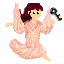
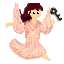
v1.2.1

diff --git a/lib/services/YukiSekai.dart b/lib/services/YukiSekai.dart
@@ -1,4 +1,5 @@
 import 'dart:async';
+import 'dart:math';
 import 'dart:ui';
 
 import 'package:firebase_database/firebase_database.dart';
@@ -21,7 +22,7 @@ class YukiSekai extends FlameGame
   final DatabaseReference fireBaseDB =
       FirebaseDatabase.instance.ref('Yuki_Sekai/World1');
 
-  Player player = Player(costume: 'Yakai_14_pink_dress');
+  Player player = Player();
 
   @override
   Color backgroundColor() => Color.fromARGB(255, 0, 0, 0);
@@ -32,6 +33,9 @@ class YukiSekai extends FlameGame
   @override
   FutureOr<void> onLoad() async {
     InitData.playersInfo.clear();
+    player.costume = (Random().nextInt(100) > 40)
+        ? 'Yakai_14_black_dress'
+        : 'Yakai_14_pink_dress';
     //load all images into cache
     await images.loadAllImages();
 

diff --git a/lib/widgets/Yuki_Sekai/World1/levels/level.dart b/lib/widgets/Yuki_Sekai/World1/levels/level.dart
@@ -27,15 +27,9 @@ class Level extends World {
       for (final spawnPoint in spawnPointsLayer.objects) {
         switch (spawnPoint.class_) {
           case 'Player':
-            // final nameTag = TextComponent(text: InitData.miyukiUser.name)
-            //   ..anchor = Anchor.topLeft
-            //   ..size = Vector2(1, 1)
-            //   ..position = Vector2(-30 / 2, -32.0)
-            //   ..priority = 300;
             player.position = Vector2(spawnPoint.x, spawnPoint.y);
             player.priority = 7;
             add(player);
-            //player.add(nameTag);
             break;
           default:
         }

diff --git a/lib/materials/MyText.dart b/lib/materials/MyText.dart
@@ -1,8 +1,9 @@
-const CURR_VERSION = 'V1.2.0';
+const CURR_VERSION = 'V1.2.1';
 const APPNAME_EN = 'YUKI CLUB';
 const APPNAME_JP = '雪クラブ';
 
 const UPDATE_CONTENT = [
+  '--V1.2.1-- 2024/03/06\nnew: Yuki World-New Costume, fix: Yuki World- fix multiplayer fatal bugs',
   '--V1.2.0-- 2024/03/04\nnew: 雪の世界Yuki World, fix: optimization',
   '--V1.1.1-- 2024/01/24\nnew: 歌会 VOL.1 Set List, fix: 夜会工場Set List',
   '--V1.1.0-- 2023/11/20\nnew: Chat Room System, fix: optimization, remove home Ad banner',

diff --git a/lib/widgets/Yuki_Sekai/players/player.dart b/lib/widgets/Yuki_Sekai/players/player.dart
@@ -112,7 +112,7 @@ class Player extends SpriteAnimationGroupComponent
           .fromCache('yuki_sekai/Main Characters/$costume/$state (32x32).png'),
       SpriteAnimationData.sequenced(
         amount: amount, //amount of pictures in the animation
-        stepTime: stepTime,
+        stepTime: (state == 'Run') ? stepTime * 2 : stepTime,
         textureSize: Vector2.all(64),
       ),
     );
